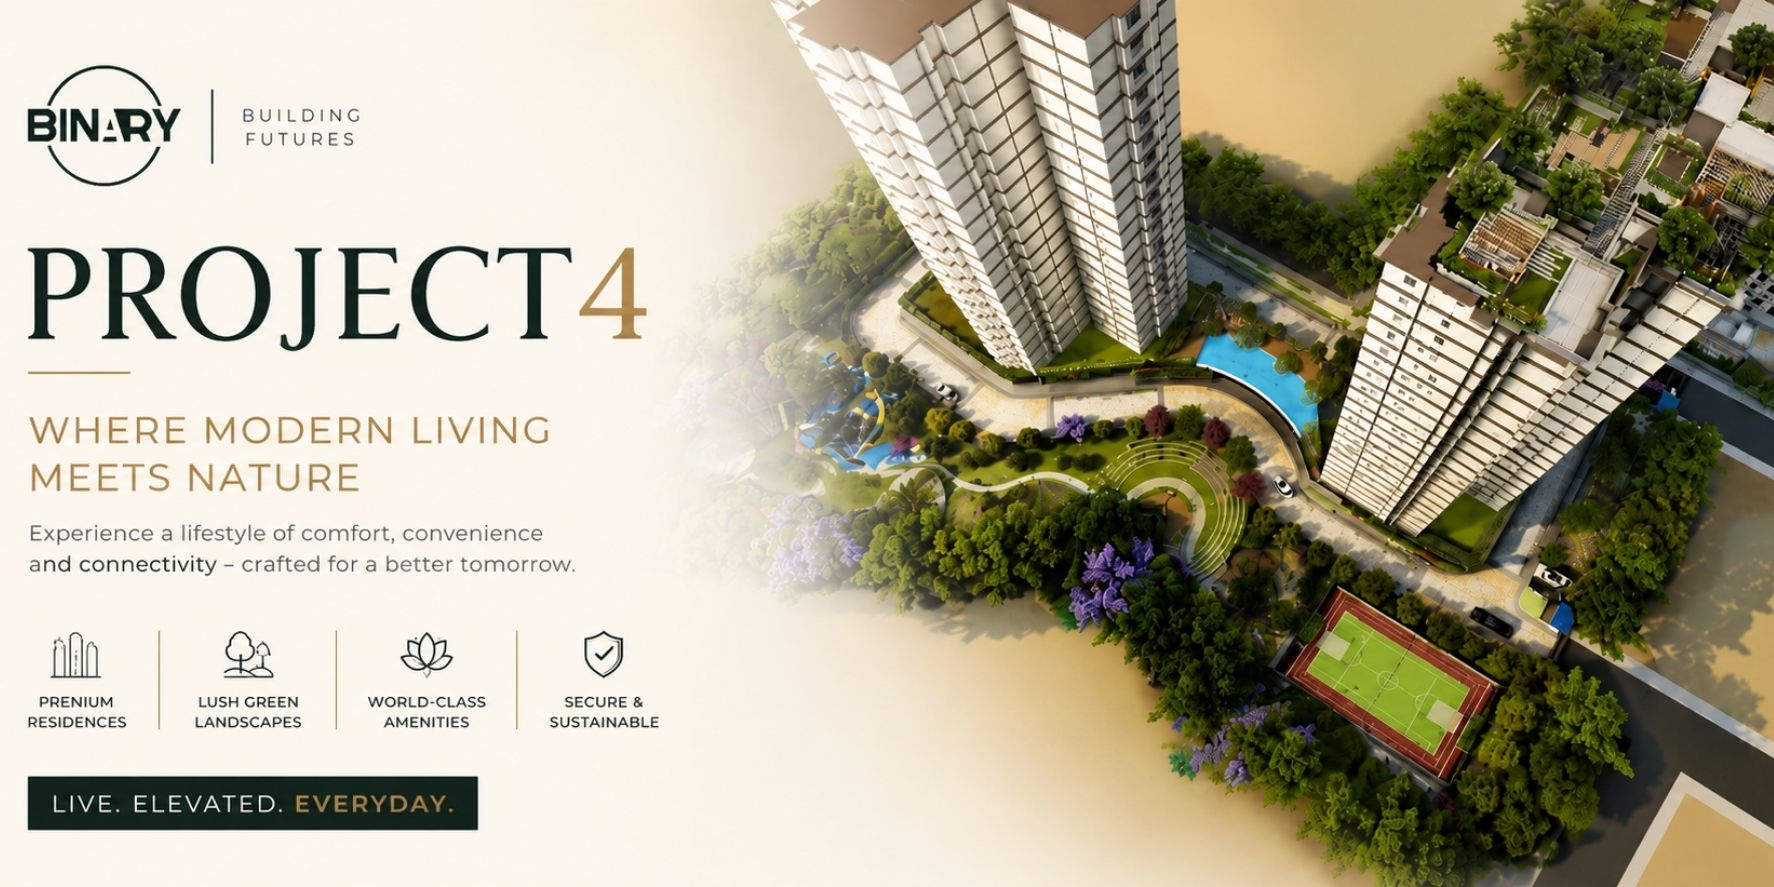
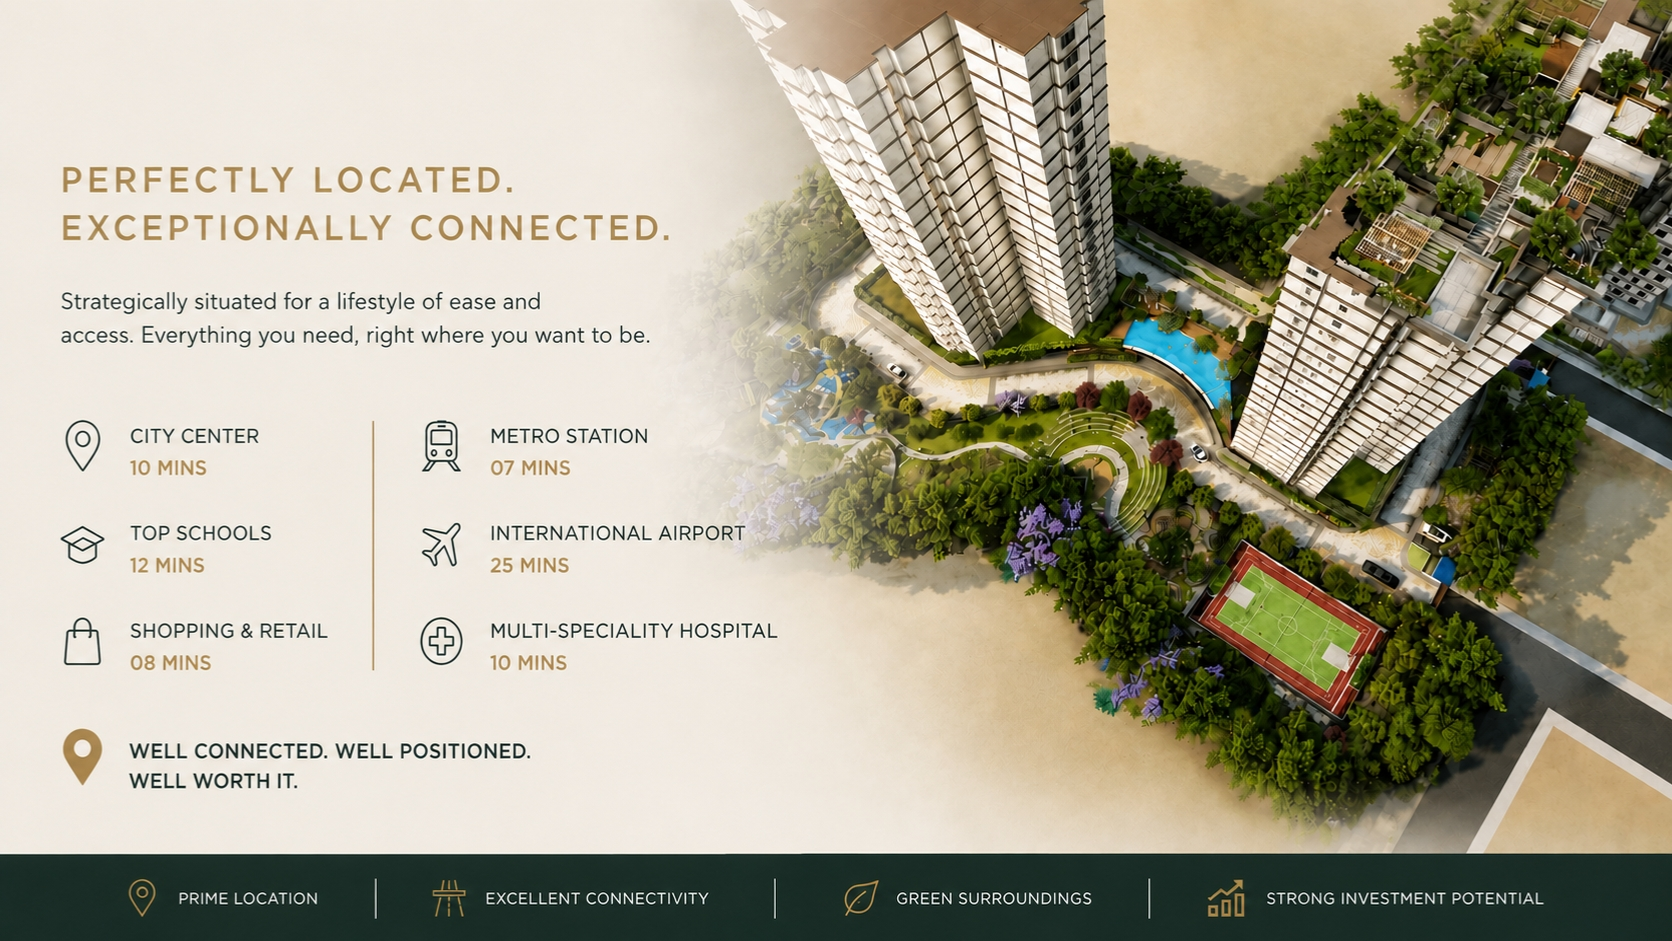
changes

diff --git a/src/components/Navbar.jsx b/src/components/Navbar.jsx
@@ -1,36 +1,30 @@
- import { useState } from "react";
+import { useState } from "react";
 import { Link } from "react-router-dom";
 import { FaBars, FaTimes, FaPhoneAlt, FaDownload } from "react-icons/fa";
 import { siteConfig, navLinks } from "../data/siteData";
 import logoLeft from "../assets/images/logo-right.png";
-import logoRight from "../assets/images/logo-left.svg";
+import logoRight from "../assets/images/logo-left1.svg";
 import EnquireModal from "./EnquireModal";
 import DownloadModal from "./DownloadModal";
 
 function LeftLogo() {
   return (
-    <Link to="/" className="cursor-pointer flex-shrink-0">
+    <Link to="/" className="cursor-pointer flex-shrink-0 flex items-center">
       <img
         src={logoLeft}
         alt={siteConfig.projectName || "Project logo"}
-        className="h-8 sm:h-10 lg:h-12 xl:h-14 2xl:h-16 w-auto hover:opacity-80 transition-opacity"
+        className="h-11 sm:h-12 lg:h-14 xl:h-16 2xl:h-20 w-auto object-contain hover:opacity-80 transition-opacity"
       />
     </Link>
   );
 }
 
-function RightLogo({ className = "h-10 lg:h-11 xl:h-12 2xl:h-14 w-auto" }) {
-  return (
-    <img
-      src={logoRight}
-      alt="Binary Ventures"
-      className={className}
-    />
-  );
+function RightLogo({ className = "h-14 lg:h-16 xl:h-20 2xl:h-20 w-auto" }) {
+  return <img src={logoRight} alt="Binary Ventures" className={className} />;
 }
 
 export default function Navbar() {
-  const [open, setOpen]               = useState(false);
+  const [open, setOpen] = useState(false);
   const [enquireOpen, setEnquireOpen] = useState(false);
   const [downloadOpen, setDownloadOpen] = useState(false);
 
@@ -52,7 +46,7 @@ export default function Navbar() {
         <div className="absolute inset-0 bg-luxury-green/40 backdrop-blur-sm" />
 
         <div className="container mx-auto px-2 sm:px-4 lg:px-6 xl:px-12 2xl:px-20 max-w-full relative z-10">
-          <div className="flex items-center justify-between h-16 sm:h-18 lg:h-20 xl:h-22 w-full">
+          <div className="flex items-center justify-between h-16 md:h-20 xl:h-24 w-full">
 
             <LeftLogo />
 
@@ -88,7 +82,7 @@ export default function Navbar() {
 
             {/* Mobile: Binary logo + hamburger */}
             <div className="lg:hidden flex items-center gap-2 sm:gap-3">
-              <RightLogo className="h-9 sm:h-10 w-auto" />
+              <RightLogo className="h-12 sm:h-14 w-auto" />
               <button
                 className="flex flex-col gap-1 sm:gap-1.5 p-1.5 sm:p-2 hover:opacity-80 transition-opacity text-luxury-gold"
                 aria-label="Open menu"
@@ -175,7 +169,7 @@ export default function Navbar() {
 
           {/* Binary logo at bottom of drawer */}
           <div className="pb-4 pt-0 flex justify-center">
-            <RightLogo className="h-20 w-auto opacity-80" />
+            <RightLogo className="h-24 w-auto opacity-80" />
           </div>
 
         </div>
@@ -213,14 +207,8 @@ export default function Navbar() {
       </button>
 
       {/* ── Modals ── */}
-      <EnquireModal
-        isOpen={enquireOpen}
-        onClose={() => setEnquireOpen(false)}
-      />
-      <DownloadModal
-        isOpen={downloadOpen}
-        onClose={() => setDownloadOpen(false)}
-      />
+      <EnquireModal isOpen={enquireOpen} onClose={() => setEnquireOpen(false)} />
+      <DownloadModal isOpen={downloadOpen} onClose={() => setDownloadOpen(false)} />
     </>
   );
 }

diff --git a/src/components/Contactus.jsx b/src/components/Contactus.jsx
@@ -47,7 +47,7 @@ export default function ContactUs() {
               {[
                 { value: "2 & 3", label: "BHK Homes" },
                 { value: "1296+", label: "Sq.ft" },
-                { value: "RERA", label: "APPROVED" },
+                { value: "RERA", label: "In Process" },
               ].map((s) => (
                 <div
                   key={s.label}
@@ -212,8 +212,7 @@ export default function ContactUs() {
               Done
             </button>
           </div>
-                <div className="mt-16 md:mt-20 h-px w-full bg-gradient-to-r from-transparent via-luxury-gold/40 to-transparent" />
-
+          
         </div>
       )}
 